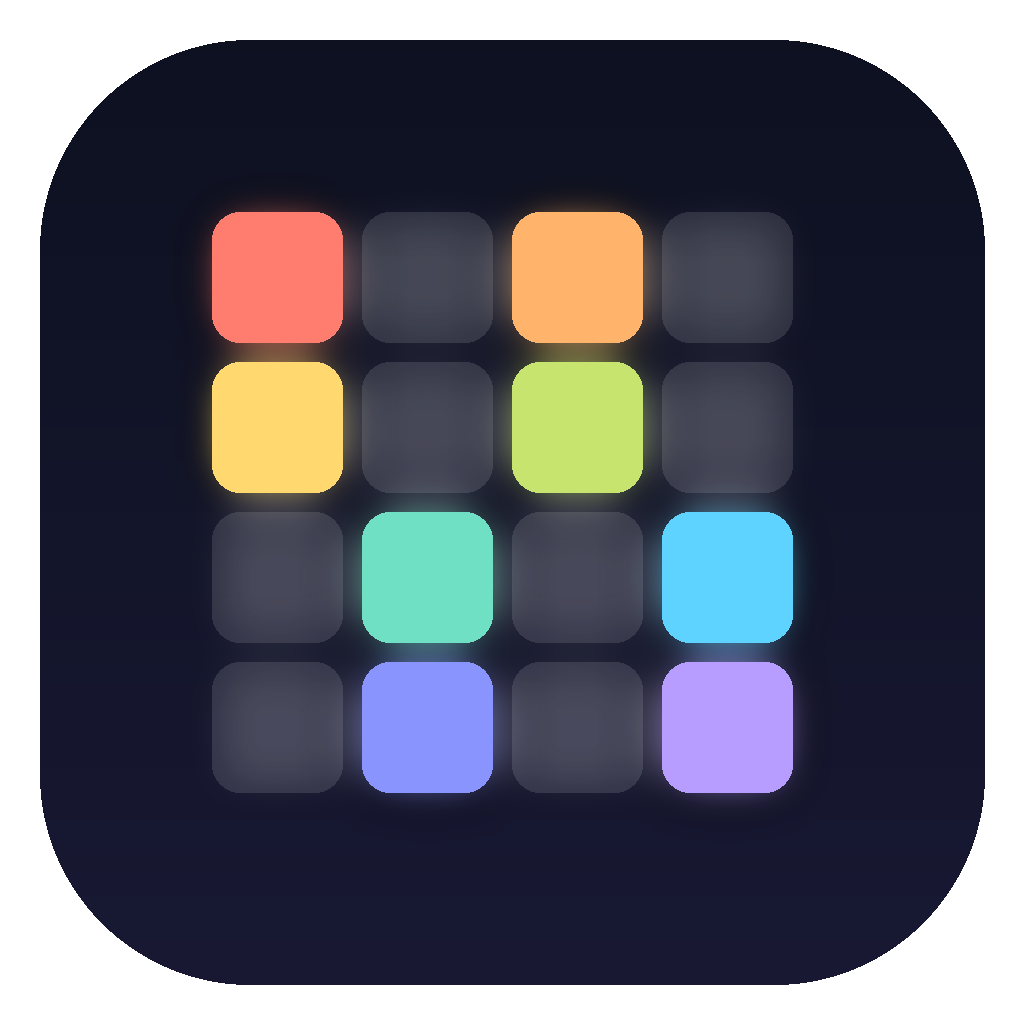
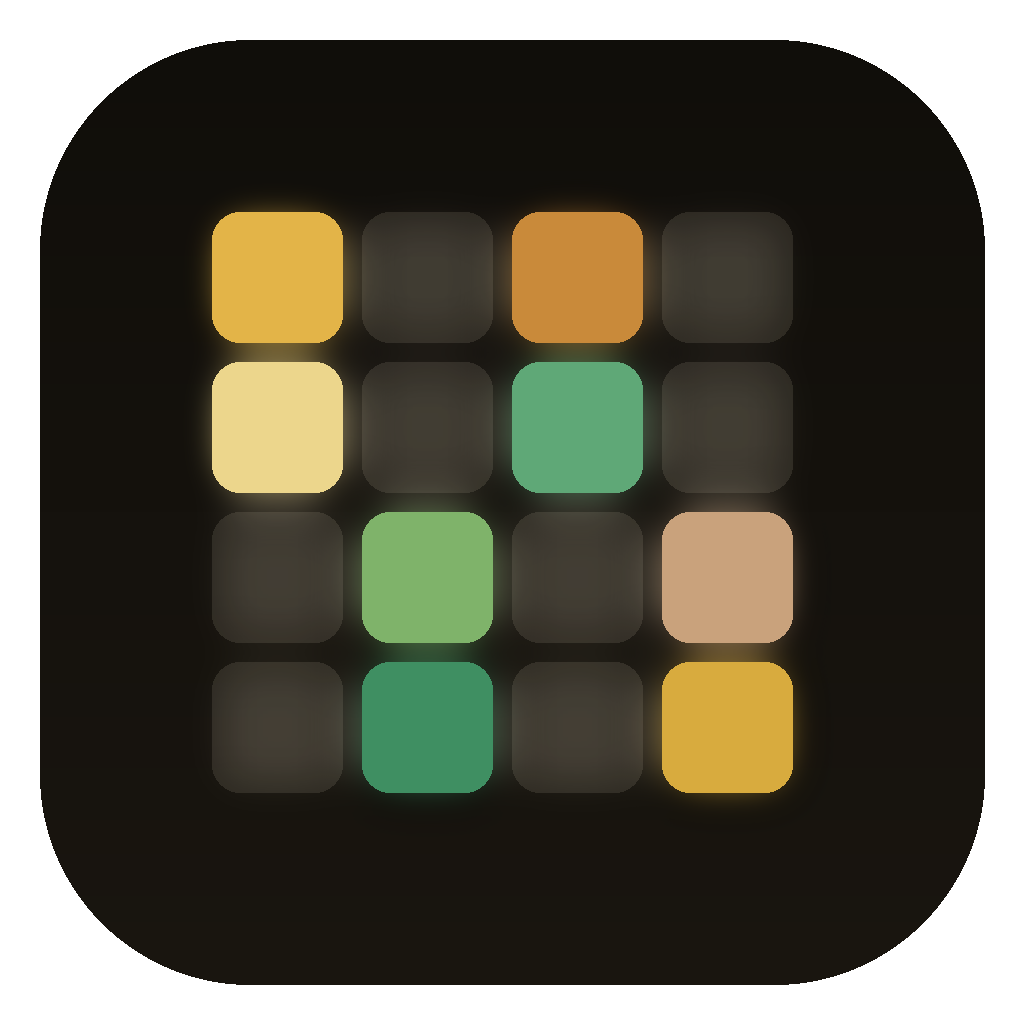
Favorites list on the right, and a black, gold, green and tan look
- Studio view gets a third column: the Favorites list, grouped into kits, kicks, snares,
  hats, percussion, toms, cymbals, vocal chops, instruments and bass, with filters (All,
  Drums, Instruments, Kits), listen, Use (or Use on… for instruments) and remove. The ♥
  button in the top bar shows or hides it; in Classic view it sits after Sounds.
- New color scheme: black backgrounds, gold accents, green for playing and active states,
  tan and cream text, and track colors drawn from the same palette. App icon and window
  background match. Ether's visualizer scenes keep their own colors.
- Hidden fields stay hidden (the empty 'Your own word' box no longer shows).

Claude-Session: https://claude.ai/code/session_019px5bMn9J9JwCEpTTdT6HF

diff --git a/index.html b/index.html
@@ -10,10 +10,12 @@
 <style>
 /* Layout: hardware panel — top bar (brand, scope, transport + random tools), control deck, step sequencer with pattern slots, pads + song row, export strip. Committed dark look. */
 :root{
-  --ink:#0d1120; --panel:#151a2c; --panel-2:#1c2238; --line:#2a3150;
-  --text:#ebe8f4; --dim:#9195b0; --accent:#ffb36b; --accent-ink:#2a1708; --rec:#ff5d6c;
-  --h-kick:#ff7d6e; --h-snare:#ffb36b; --h-hat:#ffd970; --h-ohat:#c6e46e; --h-perc:#6fe0c4;
-  --h-tom:#ff9ec4; --h-crash:#e6e3f0; --h-chop:#f08bff; --h-mel:#5fd3ff; --h-fx:#ffcf9e; --h-chops:#ff9ad5; --h-bass:#8a94ff; --h-keys:#b79dff;
+  /* Black, gold, green and tan */
+  --ink:#0a0907; --panel:#14120e; --panel-2:#1e1b15; --line:#3a3227;
+  --text:#efe3c8; --dim:#a8977a; --accent:#d8ab3e; --accent-ink:#1c1405; --rec:#d4574b;
+  --green:#5fa877; --green-ink:#0b1a10; --tan:#c9a27c; --gold-2:#f0cf73;
+  --h-kick:#e3b448; --h-snare:#c98a3a; --h-hat:#ecd68c; --h-ohat:#c4c46a; --h-perc:#7fb36a;
+  --h-tom:#c9a27c; --h-crash:#efe3c8; --h-chop:#a7c98d; --h-mel:#6fc2a0; --h-fx:#e2c27f; --h-chops:#b9935a; --h-bass:#3f8f62; --h-keys:#98b862;
   --f-display:"Bricolage Grotesque", "Avenir Next", system-ui, sans-serif;
   --f-body:"Figtree", system-ui, -apple-system, "Segoe UI", sans-serif;
   --f-mono:"IBM Plex Mono", ui-monospace, Menlo, monospace;
@@ -21,6 +23,7 @@
   color-scheme:dark;
 }
 *{box-sizing:border-box}
+[hidden]{display:none!important}
 body{background:var(--ink);color:var(--text);font-family:var(--f-body);font-size:15px;line-height:1.45;
   padding-left:max(16px, env(safe-area-inset-left, 0px));padding-right:max(16px, env(safe-area-inset-right, 0px));padding-block:20px 40px}
 .app{max-width:1040px;margin:0 auto;display:flex;flex-direction:column;gap:14px}
@@ -44,8 +47,9 @@ h2{font-family:var(--f-display);font-weight:600;font-size:18px;margin:0}
 .btn.primary{background:var(--accent);color:var(--accent-ink);border-color:var(--accent)}
 .btn.big{font-family:var(--f-display);font-size:17px;padding:10px 20px}
 .btn .ic{font-size:12px}
-#rec[aria-pressed="true"]{background:var(--rec);border-color:var(--rec);color:#1c0508}
-#rec .ic{color:var(--rec)} #rec[aria-pressed="true"] .ic{color:#1c0508}
+#rec[aria-pressed="true"]{background:var(--rec);border-color:var(--rec);color:#1a0705}
+#rec .ic{color:var(--rec)} #rec[aria-pressed="true"] .ic{color:#1a0705}
+#play[aria-pressed="true"]{background:var(--green);border-color:var(--green);color:var(--green-ink)}
 .spacer{flex:1}
 
 /* Control deck */
@@ -155,9 +159,25 @@ input[type=range]{width:100%;accent-color:var(--accent)}
 .ni-item select{background:var(--panel-2);border:1px solid var(--line);border-radius:8px;padding:5px 8px;font-size:13px}
 .ni-empty{padding:14px;color:var(--dim);font-size:14px}
 .fav{border:0;background:none;padding:0 4px;font-size:17px;line-height:1;color:var(--dim);cursor:pointer}
-.fav[aria-pressed="true"]{color:var(--h-kick)}
+.fav[aria-pressed="true"]{color:var(--accent)}
 .fav:hover{color:var(--text)}
 .field .head-fav{display:flex;justify-content:space-between;align-items:center;gap:6px}
+.favp-head{display:flex;justify-content:space-between;align-items:center;gap:8px}
+.favp-chips{display:flex;flex-wrap:wrap;gap:6px;margin-top:10px}
+.favp-chips button{border:1px solid var(--line);background:var(--panel-2);border-radius:999px;padding:4px 10px;font-size:12px;font-weight:600;color:var(--dim)}
+.favp-chips button[aria-pressed="true"]{background:var(--accent);border-color:var(--accent);color:var(--accent-ink)}
+.favp-group{margin-top:14px}
+.favp-group h3{font-family:var(--f-mono);font-size:10.5px;letter-spacing:.16em;text-transform:uppercase;color:var(--green);margin:0 0 6px;font-weight:500}
+.favp-item{display:grid;grid-template-columns:auto minmax(0,1fr) auto auto;gap:6px;align-items:center;padding:6px 6px;border-radius:9px}
+.favp-item:hover{background:var(--panel-2)}
+.favp-item .nm{display:block;font-size:14px;white-space:nowrap;overflow:hidden;text-overflow:ellipsis}
+.favp-item .meta{display:block;font-size:11.5px;color:var(--dim);white-space:nowrap;overflow:hidden;text-overflow:ellipsis}
+.favp-item .use{border:1px solid color-mix(in srgb,var(--green) 60%,var(--line));background:none;color:var(--green);border-radius:7px;padding:3px 8px;font-size:12px;font-weight:600}
+.favp-item .use:hover{background:var(--green);color:var(--green-ink)}
+.favp-item select{background:var(--panel-2);border:1px solid var(--line);border-radius:7px;padding:3px 4px;font-size:12px;max-width:92px}
+.favp-play{border:0;background:none;color:var(--accent);font-size:12px;width:22px;padding:0}
+.favp-play:disabled{opacity:.25}
+.favp-empty{color:var(--dim);font-size:14px;margin-top:12px}
 .prod-note{margin:10px 0 0;font-size:14px;color:var(--dim);min-height:1.2em}
 .prod-set{margin-top:10px}
 .prod-set summary{cursor:pointer}
@@ -205,9 +225,12 @@ input[type=range]{width:100%;accent-color:var(--accent)}
 .st-lcd,.st-tog,.st-tabs,.st-grip,.st-only{display:none}
 body.studio{padding:0;margin:0;height:100vh;overflow:hidden}
 body.studio .app{max-width:none;height:100vh;margin:0;display:grid;gap:0;
-  grid-template-columns:var(--side-w,340px) minmax(0,1fr);grid-template-rows:auto minmax(0,1fr) var(--edit-h,42vh);
-  grid-template-areas:"bar bar" "side main" "side edit"}
-body.studio.st-noside .app{grid-template-columns:0 minmax(0,1fr)}
+  grid-template-columns:var(--side-w,340px) minmax(0,1fr) var(--fav-w,300px);grid-template-rows:auto minmax(0,1fr) var(--edit-h,42vh);
+  grid-template-areas:"bar bar bar" "side main fav" "side edit fav"}
+body.studio.st-noside{--side-w:0px}
+body.studio.st-nofav{--fav-w:0px}
+body.studio.st-nofav .st-fav{display:none}
+@media (max-width:1250px){ body.studio{--fav-w:260px} }
 body.studio.st-noedit .app{grid-template-rows:auto minmax(0,1fr) 0}
 body.studio.st-noside .st-side,body.studio.st-noedit .st-edit{display:none}
 body.studio header.top{grid-area:bar;border-radius:0;border-width:0 0 1px;display:flex;align-items:center;gap:12px;padding:10px 14px;
@@ -220,17 +243,19 @@ body.studio .transport .btn{padding:7px 11px;white-space:nowrap;font-size:14px}
 body.studio .transport .btn.big{font-size:15px;padding:7px 14px}
 body.studio .transport .mini{white-space:nowrap}
 body.studio .transport .spacer{flex:1}
-body.studio .st-lcd{display:flex;gap:2px;background:#070912;border:1px solid var(--line);border-radius:10px;padding:5px 6px;
+body.studio .st-lcd{display:flex;gap:2px;background:#050403;border:1px solid var(--line);border-radius:10px;padding:5px 6px;
   box-shadow:inset 0 1px 6px rgba(0,0,0,.6)}
-.st-lcd>div{display:flex;flex-direction:column;align-items:center;padding:0 10px;border-right:1px solid #1d2238;min-width:58px}
+.st-lcd>div{display:flex;flex-direction:column;align-items:center;padding:0 10px;border-right:1px solid #2a241b;min-width:58px}
 .st-lcd>div:last-child{border-right:0}
 .st-lcd .v{font-family:var(--f-mono);font-size:16px;font-weight:500;color:var(--accent);letter-spacing:.04em;white-space:nowrap;line-height:1.2}
 .st-lcd .k{font-family:var(--f-mono);font-size:8.5px;letter-spacing:.18em;color:var(--dim);white-space:nowrap}
 body.studio .st-tog{display:inline-flex}
 .st-tog{border:1px solid var(--line);background:var(--panel-2);border-radius:8px;width:38px;height:34px;align-items:center;justify-content:center;font-size:16px;color:var(--dim)}
-.st-tog[aria-pressed="true"]{color:var(--accent);border-color:color-mix(in srgb,var(--accent) 55%,var(--line))}
+.st-tog[aria-pressed="true"]{color:var(--green);border-color:color-mix(in srgb,var(--green) 55%,var(--line))}
 .st-side{grid-area:side;overflow:auto;border-right:1px solid var(--line);background:var(--panel);display:flex;flex-direction:column;min-width:0}
 .st-main{grid-area:main;overflow:auto;padding:12px;display:flex;flex-direction:column;gap:12px;min-width:0}
+.st-fav{grid-area:fav;overflow:auto;border-left:1px solid var(--line);background:var(--panel);min-width:0}
+body.studio .st-fav .panel{border:0;border-radius:0;background:none}
 .st-edit{grid-area:edit;display:flex;flex-direction:column;border-top:1px solid var(--line);background:var(--panel);min-height:0;min-width:0;position:relative}
 body.studio .st-tabs{display:flex;gap:2px;padding:6px 8px 0;border-bottom:1px solid var(--line);background:var(--panel-2);position:sticky;top:0;z-index:2}
 .st-tabs button{border:0;background:none;padding:8px 14px;border-radius:8px 8px 0 0;font-family:var(--f-mono);font-size:11px;letter-spacing:.14em;text-transform:uppercase;color:var(--dim)}
@@ -263,7 +288,7 @@ body.studio .pads-wrap{grid-template-columns:minmax(0,1fr) 230px}
 body.studio .st-pane .viz-box{height:calc(var(--edit-h,42vh) - 150px);min-height:180px}
 .viz-box canvas{width:100%;height:100%;display:block}
 .viz-box:fullscreen{height:100vh;border-radius:0}
-.viz-cap{position:absolute;left:14px;bottom:10px;font-family:var(--f-mono);font-size:11px;letter-spacing:.2em;color:rgba(235,232,244,.55);pointer-events:none}
+.viz-cap{position:absolute;left:14px;bottom:10px;font-family:var(--f-mono);font-size:11px;letter-spacing:.2em;color:rgba(239,227,200,.55);pointer-events:none}
 .viz-side{display:flex;flex-direction:column;gap:10px;min-width:0}
 .viz-name{margin:0;font-family:var(--f-display);font-weight:600;font-size:16px}
 .viz-desc{margin:0;color:var(--dim);font-size:13px}
@@ -400,6 +425,12 @@ body.studio .st-pane .viz-box{height:calc(var(--edit-h,42vh) - 150px);min-height
       <label class="field st-voice" id="voiceField" hidden><span class="lbl">Chop singer (natural voice)</span><select id="voiceSel"></select></label>
       <label class="field" id="voiceWordField" hidden><span class="lbl">Your own word</span><input type="text" id="voiceWord" class="ni-input" maxlength="40" placeholder="e.g. yeah, oh baby, ether" aria-label="Word for the vocal chop"></label>
     </div>
+  </section>
+
+  <section class="panel" id="favPanel" aria-label="Favorites">
+    <div class="favp-head"><h2>♥ Favorites</h2><span class="lbl" id="favCount"></span></div>
+    <div class="favp-chips" id="favChips" role="group" aria-label="Show"></div>
+    <div id="favList"></div>
   </section>
 
   <section class="seq panel" aria-label="Pattern">
@@ -2026,7 +2057,7 @@ function niStatus(){
   if(NI.kit) s+=` · playing kit: ${NI.kit}`;
   el.textContent=s;
   const kn=$("niKitNote"); kn.hidden=!NI.kit;
-  kn.textContent=NI.kit?`Playing the Native Instruments kit “${NI.kit}”. The choices below are Beat Lab's synth drums, used for any sound the kit doesn't have and when you go back to synth drums.`:"";
+  kn.textContent=NI.kit?`Playing the Native Instruments kit “${NI.kit}”. Swap any single sound below, or press ♡ to keep one in your favorites.`:"";
 }
 function niEntries(){
   if(!NI.lib) return [];
@@ -2420,6 +2451,83 @@ function favSetup(){
   favLoad();
 }
 favSetup();
+
+/* ---------- Favorites list (right side) ---------- */
+// Every favorite in one place, grouped by what it is. "Use" puts it to work in its usual spot.
+const FAVP={filter:"all"};
+const ROLE_SEL={kick:"kitKick",snare:"kitSnare",clap:"kitSnare",rim:"kitSnare",snap:"kitSnare",closedHat:"kitHat",shaker:"kitHat",
+  openHat:"kitOhat",ride:"kitOhat",perc:"percSel",tom:"kitTom",crash:"kitCrash",cymbal:"kitCrash",vocal:"kitChop"};
+const SEL_GROUP={kitKick:"Kicks",kitSnare:"Snares & claps",kitHat:"Hi-hats & shakers",kitOhat:"Open hats & rides",percSel:"Percussion",
+  kitTom:"Toms",kitCrash:"Cymbals",kitChop:"Vocal chops",fxSel:"Transitions",instA:"Instruments",instBass:"Bass",niKit:"Drum kits"};
+const GROUP_ORDER=["Drum kits","Kicks","Snares & claps","Hi-hats & shakers","Open hats & rides","Percussion","Toms","Cymbals","Vocal chops","Transitions","Instruments","Bass"];
+const MELODY_CATS=["lead","bell","pluck"];
+function favItem(key){
+  // Works out which menu a favorite belongs to and what it's called.
+  let selId=null, value=key, f=null, inst=null;
+  if(key.startsWith("nid:")){ f=NI.drumByPath&&NI.drumByPath.get(key.slice(4)); if(!f) return null; selId=ROLE_SEL[f.role]; }
+  else if(key.startsWith("ni:")){ const d=INST[key]; if(!d||!d.ni) return null; inst=d.ni; selId=inst.category==="bass"?"instBass":"instA"; }
+  else if(key.startsWith("inst:")){ value=key.slice(5); if(!INST[value]) return null; selId="instA"; }
+  else if(key.startsWith("bass:")){ value=key.slice(5); if(!BASSES[value]) return null; selId="instBass"; }
+  else if(key.startsWith("kit:")){ value=key.slice(4); if(!NI.kits.includes(value)) return null; selId="niKit"; }
+  else { const i=key.indexOf(":"); selId=key.slice(0,i); value=key.slice(i+1); }
+  const sel=$(selId); if(!sel) return null;
+  const opt=[...sel.options].find(o=>o.value===value&&!o.parentElement.classList.contains("favs")); if(!opt) return null;
+  let name=opt.text.replace(/^♥ /,""), meta="";
+  if(f){ name=f.name; meta=`${NI_ROLE_LABEL[f.role]} · ${kitShort(f.kit)}`; }
+  else if(inst){ name=inst.name; meta=`${NI_CATS[inst.category]||"Instrument"} · ${kitShort(inst.kit)}`; }
+  else if(selId==="niKit") meta="Native Instruments kit";
+  else if(value.startsWith("voice:")) meta="Natural voice · "+(VOICE.singer||"");
+  else if(selId==="instA"){ const c=INST_CAT[value]; meta=(NI_CATS[c]||"Instrument")+" · Beat Lab"; name=name.replace(/^✦ /,"✦ "); }
+  else meta=(SEL_GROUP[selId]||"Sound")+" · Beat Lab";
+  const kind=selId==="niKit"?"kits":selId==="instA"||selId==="instBass"?"inst":"drums";
+  return {key,selId,value,f,inst,name,meta,kind,group:SEL_GROUP[selId]||"More"};
+}
+function favUse(it,slot){
+  const id=it.selId==="instA"?({a:"instA",b:"instB",mel:"instMel"}[slot]||"instA"):it.selId, sel=$(id);
+  if(!sel) return;
+  sel.value=it.value; sel.dispatchEvent(new Event("change",{bubbles:true}));
+  toast(`${it.name} → ${({instA:"Chords",instB:"Chords layer 2",instMel:"Melody",instBass:"Bass",niKit:"drum kit"})[id]||SEL_GROUP[id]||"track"}`);
+}
+function favRenderPanel(){
+  const list=$("favList"); if(!list) return;
+  const items=[...FAV].map(favItem).filter(Boolean);
+  $("favCount").textContent=items.length?`${items.length} sound${items.length===1?"":"s"}`:"";
+  const chips=$("favChips"); chips.innerHTML="";
+  [["all","All"],["drums","Drums"],["inst","Instruments"],["kits","Kits"]].forEach(([k,label])=>{ const b=document.createElement("button"); b.type="button"; b.textContent=label;
+    b.setAttribute("aria-pressed",FAVP.filter===k); b.onclick=()=>{ FAVP.filter=k; favRenderPanel(); }; chips.appendChild(b); });
+  list.innerHTML="";
+  const shown=items.filter(it=>FAVP.filter==="all"||it.kind===FAVP.filter);
+  if(!shown.length){ const p=document.createElement("p"); p.className="favp-empty";
+    p.textContent=items.length?"Nothing here yet in this filter.":"Press ♡ beside any sound, menu or kit to keep it here."; list.appendChild(p); return; }
+  const groups=new Map(); shown.forEach(it=>{ if(!groups.has(it.group)) groups.set(it.group,[]); groups.get(it.group).push(it); });
+  [...groups.keys()].sort((a,b)=>GROUP_ORDER.indexOf(a)-GROUP_ORDER.indexOf(b)).forEach(g=>{
+    const sec=document.createElement("div"); sec.className="favp-group"; const h=document.createElement("h3"); h.textContent=g; sec.appendChild(h);
+    groups.get(g).sort((a,b)=>a.name.localeCompare(b.name)).forEach(it=>{
+      const row=document.createElement("div"); row.className="favp-item";
+      const play=document.createElement("button"); play.type="button"; play.className="favp-play"; play.textContent="▶";
+      if(it.f){ play.title="Listen"; play.onclick=()=>niAuditionDrum(it.f); }
+      else if(it.inst){ play.title="Listen"; play.onclick=()=>niAuditionInst(it.inst); }
+      else { play.disabled=true; play.title="Use it to hear it"; }
+      const txt=document.createElement("div"), nm=document.createElement("span"), meta=document.createElement("span");
+      nm.className="nm"; meta.className="meta"; nm.textContent=it.name; meta.textContent=it.meta; nm.title=it.name; txt.append(nm,meta);
+      let use;
+      if(it.selId==="instA"){
+        use=document.createElement("select"); use.setAttribute("aria-label","Use "+it.name+" on");
+        use.add(new Option("Use on…","")); [["a","Chords"],["b","Chords layer 2"],["mel","Melody"]].forEach(([k,l])=>use.add(new Option(l,k)));
+        use.onchange=()=>{ const v=use.value; use.value=""; if(v) favUse(it,v); };
+      } else {
+        use=document.createElement("button"); use.type="button"; use.className="use"; use.textContent="Use";
+        use.title=`Use on ${it.group==="Drum kits"?"the drum kit":it.group.toLowerCase()}`; use.onclick=()=>favUse(it);
+      }
+      const heart=favButton(it.key,()=>it.name);
+      row.append(play,txt,use,heart); sec.appendChild(row);
+    });
+    list.appendChild(sec);
+  });
+}
+{ const raw=favRefresh; favRefresh=function(...a){ raw.apply(this,a); favRenderPanel(); }; }
+{ const raw=niApplyLibrary; niApplyLibrary=function(...a){ raw.apply(this,a); favRenderPanel(); }; }
+favRenderPanel();
 
 </script>
 <script>
@@ -2971,7 +3079,7 @@ function stEl(tag,cls,html){ const e=document.createElement(tag); if(cls) e.clas
 function stPanels(){
   return {bar:stQ("header.top"),deck:stQ('[aria-label="Beat settings"]'),prod:stQ('[aria-label="AI Producer"]'),ni:stQ("#niPanel"),
     sounds:stQ('[aria-label="Sounds"]'),seq:stQ('[aria-label="Pattern"]'),pads:stQ('[aria-label="Pads"]'),song:stQ('[aria-label="Song"]'),
-    sampler:stQ('[aria-label="Sampler"]'),viz:stQ('[aria-label="Visualizer"]'),exp:stQ('[aria-label="Export"]'),duo:stQ(".duo")};
+    sampler:stQ('[aria-label="Sampler"]'),viz:stQ('[aria-label="Visualizer"]'),exp:stQ('[aria-label="Export"]'),duo:stQ(".duo"),fav:stQ("#favPanel")};
 }
 function stTabs(host,tabs,current,onPick){
   const bar=stEl("div","st-tabs"); bar.setAttribute("role","tablist");
@@ -3001,7 +3109,8 @@ function studioOn(){
   STUDIO.pickEdit=stTabs(edit,[["pads","Pads",P.pads],["sounds","Sounds & Kits",P.sounds],["sampler","Sampler",P.sampler],["viz","Visualizer",P.viz],["export","Export",P.exp]],
     STUDIO.editTab,k=>{ STUDIO.editTab=k; stSave(); if(k==="sampler"&&typeof drawWave==="function") setTimeout(drawWave,30); });
   [...app.children].forEach(c=>c.remove());
-  app.append(P.bar,side,main,edit);
+  const favCol=stEl("aside","st-fav"); favCol.setAttribute("aria-label","Favorites list"); favCol.appendChild(P.fav);
+  app.append(P.bar,side,main,favCol,edit);
   stGrip(grip);
   document.body.classList.add("studio"); STUDIO.on=true; stSyncToggles(); stSave();
 }
@@ -3010,8 +3119,8 @@ function studioOff(){
   duo.append(P.pads,P.song);
   [...app.children].forEach(c=>c.remove());
   // Back to the classic page order.
-  [P.bar,P.deck,P.prod,P.ni,P.sounds,P.seq,duo,P.sampler,P.viz,P.exp].forEach(n=>{ if(n) app.appendChild(n); });
-  document.body.classList.remove("studio","st-noside","st-noedit"); STUDIO.on=false; stSyncToggles(); stSave();
+  [P.bar,P.deck,P.prod,P.ni,P.sounds,P.fav,P.seq,duo,P.sampler,P.viz,P.exp].forEach(n=>{ if(n) app.appendChild(n); });
+  document.body.classList.remove("studio","st-noside","st-noedit","st-nofav"); STUDIO.on=false; stSyncToggles(); stSave();
 }
 function stGrip(grip){
   grip.addEventListener("pointerdown",e=>{
@@ -3025,11 +3134,12 @@ function stGrip(grip){
 }
 function stSyncToggles(){
   $("stSide").setAttribute("aria-pressed",STUDIO.on&&!document.body.classList.contains("st-noside"));
+  $("stFav").setAttribute("aria-pressed",STUDIO.on&&!document.body.classList.contains("st-nofav"));
   $("stEdit").setAttribute("aria-pressed",STUDIO.on&&!document.body.classList.contains("st-noedit"));
   $("stView").textContent=STUDIO.on?"Classic view":"Studio view";
 }
 function stSave(){ try{ localStorage.setItem("beatlab.studio",JSON.stringify({on:STUDIO.on,side:STUDIO.sideTab,edit:STUDIO.editTab,
-  noside:document.body.classList.contains("st-noside"),noedit:document.body.classList.contains("st-noedit")})); }catch(e){} }
+  noside:document.body.classList.contains("st-noside"),noedit:document.body.classList.contains("st-noedit"),nofav:document.body.classList.contains("st-nofav")})); }catch(e){} }
 /* The display in the control bar: position, tempo, key and genre at a glance. */
 function stLCD(){
   requestAnimationFrame(stLCD); if(!STUDIO.on) return;
@@ -3050,7 +3160,9 @@ function studioSetup(){
   const edit=stEl("button","st-tog","⬓"); edit.id="stEdit"; edit.title="Show or hide the editors (pads, sounds, sampler, visualizer, export)";
   const view=stEl("button","mini",""); view.id="stView"; view.title="Switch between the studio layout and the classic page";
   stQ(".brand").after(side);
-  tr.append(edit,view);
+  const favT=stEl("button","st-tog","♥"); favT.id="stFav"; favT.title="Show or hide the favorites list";
+  tr.append(edit,favT,view);
+  favT.onclick=()=>{ if(!STUDIO.on) return; document.body.classList.toggle("st-nofav"); stSyncToggles(); stSave(); };
   side.onclick=()=>{ if(!STUDIO.on) return; document.body.classList.toggle("st-noside"); stSyncToggles(); stSave(); };
   edit.onclick=()=>{ if(!STUDIO.on) return; document.body.classList.toggle("st-noedit"); stSyncToggles(); stSave(); };
   view.onclick=()=>{ STUDIO.on?studioOff():studioOn(); };
@@ -3058,7 +3170,7 @@ function studioSetup(){
   if(saved){ STUDIO.sideTab=saved.side||STUDIO.sideTab; STUDIO.editTab=saved.edit||STUDIO.editTab; }
   // Studio is the default in the Mac app and on wide screens.
   const want=saved?saved.on:(NATIVE||window.innerWidth>=1200);
-  if(want&&window.innerWidth>=900){ studioOn(); if(saved){ document.body.classList.toggle("st-noside",!!saved.noside); document.body.classList.toggle("st-noedit",!!saved.noedit); stSyncToggles(); } }
+  if(want&&window.innerWidth>=900){ studioOn(); if(saved){ document.body.classList.toggle("st-noside",!!saved.noside); document.body.classList.toggle("st-noedit",!!saved.noedit); document.body.classList.toggle("st-nofav",!!saved.nofav); stSyncToggles(); } }
   stSyncToggles();
   requestAnimationFrame(stLCD);
 }

diff --git a/mac/Sources/EtherBeatLab/main.swift b/mac/Sources/EtherBeatLab/main.swift
@@ -359,7 +359,7 @@ final class AppDelegate: NSObject, NSApplicationDelegate, WKNavigationDelegate, 
         window = NSWindow(contentRect: NSRect(x: 0, y: 0, width: 1180, height: 900),
                           styleMask: [.titled, .closable, .miniaturizable, .resizable], backing: .buffered, defer: false)
         window.title = "Ether Beat Lab"
-        window.backgroundColor = NSColor(red: 0.05, green: 0.07, blue: 0.125, alpha: 1)
+        window.backgroundColor = NSColor(red: 0.04, green: 0.035, blue: 0.027, alpha: 1)
         window.contentView = webView
         window.setFrameAutosaveName("EtherBeatLabWindow")
         if !window.setFrameUsingName("EtherBeatLabWindow") { window.center() }
@@ -367,7 +367,7 @@ final class AppDelegate: NSObject, NSApplicationDelegate, WKNavigationDelegate, 
         bridge.window = window
 
         if AppFiles.webPage == nil {
-            webView.loadHTMLString("<body style='background:#0d1120;color:#eee;font:16px system-ui;padding:40px'>The Beat Lab page (index.html) wasn't found. Reinstall with install-mac-app.sh.</body>", baseURL: nil)
+            webView.loadHTMLString("<body style='background:#0a0907;color:#efe3c8;font:16px system-ui;padding:40px'>The Beat Lab page (index.html) wasn't found. Reinstall with install-mac-app.sh.</body>", baseURL: nil)
         } else {
             webView.load(URLRequest(url: URL(string: "ether://app/index.html")!))
         }

diff --git a/README.md b/README.md
@@ -45,7 +45,7 @@ The **Visualizer** has five scenes around the Zero Point, a luminous diamond tha
 
 The Mac app is the same Beat Lab in its own window, plus two things the web page can't do:
 
-- **Native Instruments library.** Add your NI drive (or folders) and Beat Lab scans it once. Drum one-shots from Maschine expansions and Battery kits are sorted into kick, snare, clap, hats, percussion, toms and cymbals by kit; melodic one-shots (keys, pads, synths, plucks, bells, strings, brass, guitars, bass) become playable instruments, tuned from the note in each file name. Everything is sorted into the **Sounds & Kits** menus. Drum menus: **Kick**; **Snare & clap** (snares, then claps, rims and snaps); **Hi-hat** (closed hats and shakers); **Open hat & ride**; **Percussion**; **Toms**; **Cymbals** (crashes and rides); **Vocal chop** (in the Mac app a natural voice: pick a word, Ahh, Ooh, Oh, Hey, Yeah, Uh, La, Hmm, Whoa or your own, and a **Chop singer** from the voices built into macOS; it's tuned so it sings the chord notes in key. Beat Lab's synth voices and your NI vocal one-shots are in the same menu). For more and better voices, add them in System Settings → Accessibility → Spoken Content → System voice → Manage Voices; Premium and Enhanced voices are marked ★. Each menu shows Beat Lab's own sounds, then one group per NI kit. Instrument menus use one set of categories for Beat Lab and NI sounds alike: Pianos & Keys, Organs, Pads & Atmospheres, Strings, Guitars, Synths, Plucks, Bells & Mallets, Brass & Woodwinds, Voices & Choirs, Synth Leads and World Instruments, each with Beat Lab's sounds followed by your NI sounds; the Melody menu starts with leads and bells, the Chords menus with keys and pads. Sounds made for Ether are marked ✦. **Favorites:** press the ♡ beside any menu (drum kit sounds, instruments, the NI kit picker) or beside any sound in Browse and assign. Favorites appear in a ♥ Favorites group at the top of every menu that offers them (an instrument you love shows up in Chords, Chords layer 2 and Melody), and **♥ Favorites** in Browse and assign lists just those. They're saved on your Mac. Click any Sounds menu and press **↑** or **↓** to step through the sounds one at a time and hear each, without opening the list. After updating the app, press **Rescan** once so your library gets the new sound types. Pick a **drum kit**, press **⚄ Kit for genre**, or **browse**, listen (▶) and put any sound on any drum track or on Chords A/B, Melody or Bass with **Use on…**. Everything plays in the step sequencer, on the pads and in the export. Kontakt libraries use NI's locked formats, so they're counted and skipped. With **Roll and Randomize use NI sounds** on, ⚄ Roll sounds and ⚄ Randomize pick from your library too.
+- **Native Instruments library.** Add your NI drive (or folders) and Beat Lab scans it once. Drum one-shots from Maschine expansions and Battery kits are sorted into kick, snare, clap, hats, percussion, toms and cymbals by kit; melodic one-shots (keys, pads, synths, plucks, bells, strings, brass, guitars, bass) become playable instruments, tuned from the note in each file name. Everything is sorted into the **Sounds & Kits** menus. Drum menus: **Kick**; **Snare & clap** (snares, then claps, rims and snaps); **Hi-hat** (closed hats and shakers); **Open hat & ride**; **Percussion**; **Toms**; **Cymbals** (crashes and rides); **Vocal chop** (in the Mac app a natural voice: pick a word, Ahh, Ooh, Oh, Hey, Yeah, Uh, La, Hmm, Whoa or your own, and a **Chop singer** from the voices built into macOS; it's tuned so it sings the chord notes in key. Beat Lab's synth voices and your NI vocal one-shots are in the same menu). For more and better voices, add them in System Settings → Accessibility → Spoken Content → System voice → Manage Voices; Premium and Enhanced voices are marked ★. Each menu shows Beat Lab's own sounds, then one group per NI kit. Instrument menus use one set of categories for Beat Lab and NI sounds alike: Pianos & Keys, Organs, Pads & Atmospheres, Strings, Guitars, Synths, Plucks, Bells & Mallets, Brass & Woodwinds, Voices & Choirs, Synth Leads and World Instruments, each with Beat Lab's sounds followed by your NI sounds; the Melody menu starts with leads and bells, the Chords menus with keys and pads. Sounds made for Ether are marked ✦. **Favorites:** press the ♡ beside any menu (drum kit sounds, instruments, the NI kit picker) or beside any sound in Browse and assign. Favorites appear in a ♥ Favorites group at the top of every menu that offers them (an instrument you love shows up in Chords, Chords layer 2 and Melody), and **♥ Favorites** in Browse and assign lists just those. They're saved on your Mac, and the **♥ Favorites** list on the right side of Studio view (the ♥ button in the top bar shows or hides it) keeps them all in one place, grouped into kits, kicks, snares, hats, percussion, toms, cymbals, vocal chops, instruments and bass: ▶ to listen, **Use** to put one to work, ♥ to remove it. Click any Sounds menu and press **↑** or **↓** to step through the sounds one at a time and hear each, without opening the list. After updating the app, press **Rescan** once so your library gets the new sound types. Pick a **drum kit**, press **⚄ Kit for genre**, or **browse**, listen (▶) and put any sound on any drum track or on Chords A/B, Melody or Bass with **Use on…**. Everything plays in the step sequencer, on the pads and in the export. Kontakt libraries use NI's locked formats, so they're counted and skipped. With **Roll and Randomize use NI sounds** on, ⚄ Roll sounds and ⚄ Randomize pick from your library too.
 - **AI Producer.** Type a vibe ("late-night jazzy boom bap, warm and dusty") and press **Produce**. It sets the genre, tempo, key, scale, swing, energy and complexity, and chooses your NI kit and instruments. It uses the model loaded in **LM Studio** on your Mac: no API key, and nothing leaves your computer. When LM Studio is off it falls back to the built-in producer, which reads genre, mood and speed words. The AI Producer's built-in mode also works on the web page.
 
 Sound files are read straight from your drive and played inside the app; the app only serves files its own scan found.
